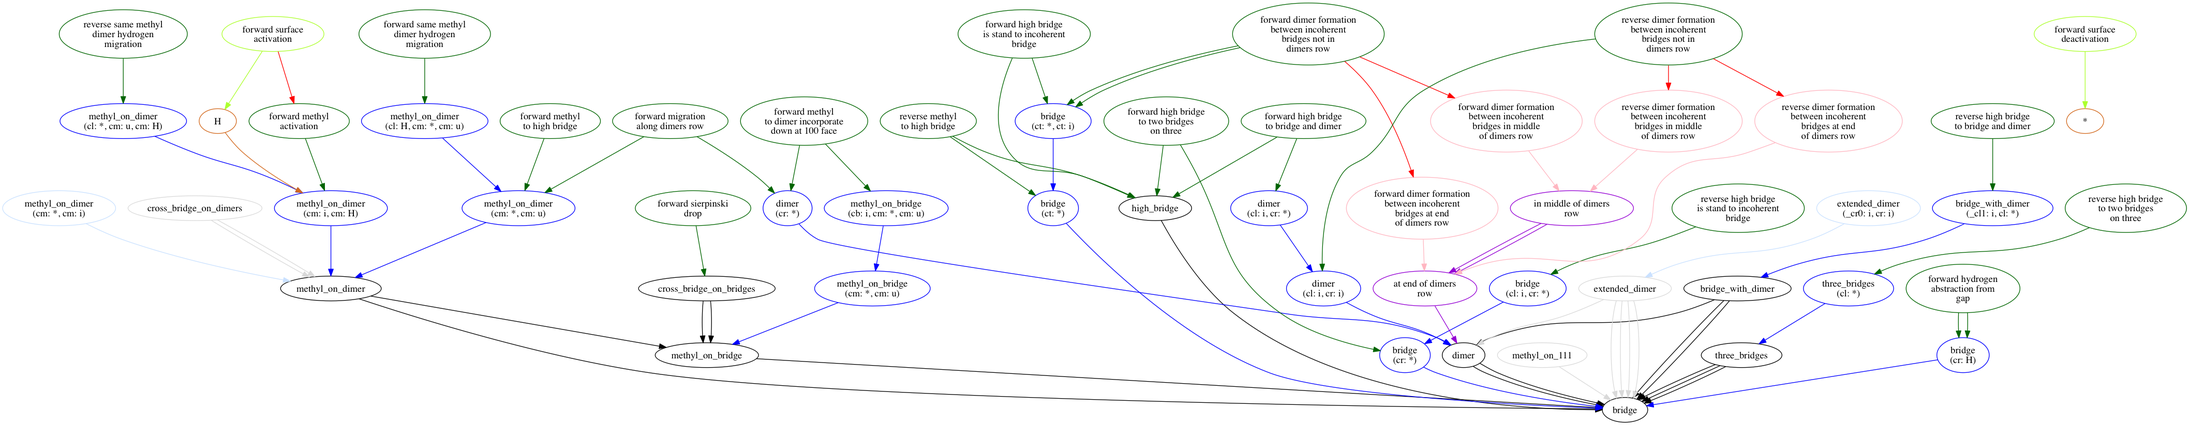
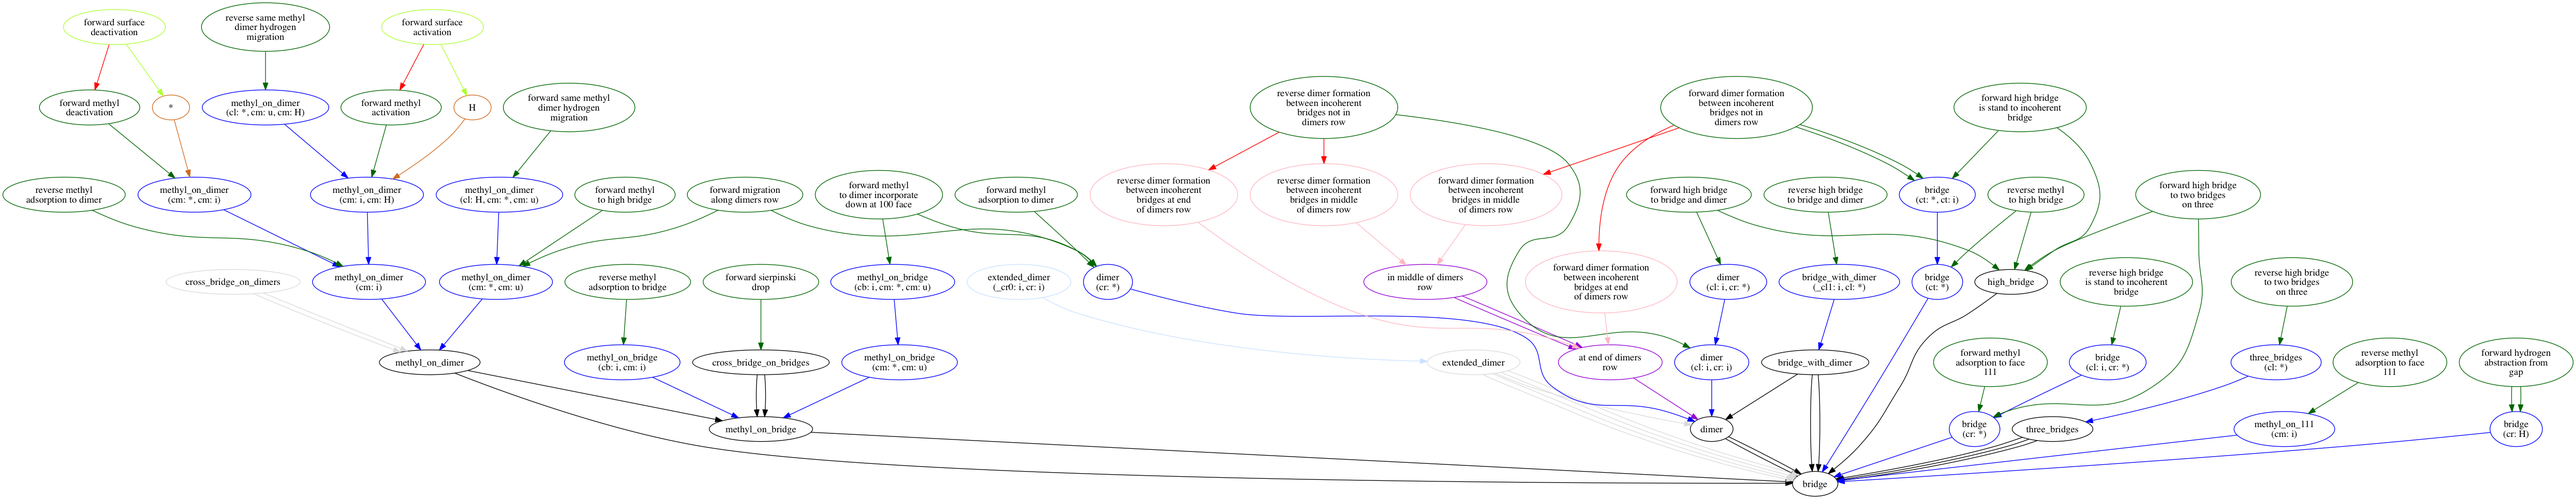
fix reaction rate calculation && fix dependencies between ubiquitous reactions and typical reactions

diff --git a/analyzer/spec/units/organizers/analysis_result_spec.rb b/analyzer/spec/units/organizers/analysis_result_spec.rb
@@ -22,47 +22,37 @@ module VersatileDiamond
 
         # ubuqitous[0]
         surface_activation.rate = 0.1
-        surface_activation.activation = 0
         # ubuqitous[1]
         surface_deactivation.rate = 0.2
-        surface_deactivation.activation = 0
 
         # typical[0]
         methyl_activation.rate = 0.3
-        methyl_activation.activation = 0
         # typical[1]
         methyl_deactivation.rate = 0.4
-        methyl_deactivation.activation = 0
 
         # typical[2]
         methyl_desorption.rate = 1
-        methyl_desorption.activation = 0
 
         # typical[3]
         hydrogen_migration.rate = 2
-        hydrogen_migration.activation = 0
         # typical[4]
         hydrogen_migration.reverse.rate = 3
         hydrogen_migration.reverse.activation = 1e3
 
         # typical[5]
         # dimer_formation.rate = 0
-        # dimer_formation.activation = 0
         # typical[6]
         dimer_formation.reverse.rate = 5
         dimer_formation.reverse.activation = 2e3
 
         # typical[7]
         methyl_incorporation.rate = 6
-        methyl_incorporation.activation = 0
 
         # lateral[0]
         end_lateral_df.rate = 6
-        end_lateral_df.activation = 0
 
         # lateral[1]
         middle_lateral_df.rate = 7
-        middle_lateral_df.activation = 0
 
         ubiquitous = [surface_activation, surface_deactivation]
 
@@ -303,11 +293,9 @@ module VersatileDiamond
             Tools::Config.surface_temperature(500, 'K')
 
             incoherent_dimer_drop.rate = 1
-            incoherent_dimer_drop.activation = 0
             Tools::Chest.store(incoherent_dimer_drop)
 
             end_lateral_idd.rate = 2
-            end_lateral_idd.activation = 0
             Tools::Chest.store(end_lateral_idd)
 
             [incoherent_dimer_drop, end_lateral_idd].each do |reaction|
@@ -345,7 +333,6 @@ module VersatileDiamond
             shared_examples_for :duplicate_or_not do
               def store_to_chest(reaction)
                 reaction.rate = 1
-                reaction.activation = 0
                 Tools::Chest.store(reaction)
               end
 
@@ -415,7 +402,6 @@ module VersatileDiamond
 
             describe 'lateral' do
               before do
-                ewb_lateral_df.activation = 0
                 ewb_lateral_df.rate = 8
                 Tools::Chest.store(ewb_lateral_df)
               end

diff --git a/analyzer/lib/tools/config.rb b/analyzer/lib/tools/config.rb
@@ -114,11 +114,13 @@ module VersatileDiamond
           arrenius = reaction.rate * (temp ** reaction.temp_power) *
             Math.exp(-reaction.activation / (Dimension::R * temp))
 
-          reaction.gases_num == 0 ?
-            arrenius :
+          if reaction.gases_num == 0
+            arrenius
+          else
             reaction.each(:source).reduce(arrenius) do |acc, spec|
               spec.gas? ? acc * concentration_value(spec) : acc
             end
+          end
         end
 
         # Finds concenctration value for some spec

diff --git a/analyzer/lib/concepts/ubiquitous_reaction.rb b/analyzer/lib/concepts/ubiquitous_reaction.rb
@@ -157,7 +157,7 @@ module VersatileDiamond
       # Calculate full rate of reaction
       # @return [Float] the full raction rate
       def full_rate
-        @activation && @rate ? Tools::Config.rate(self) : 0
+        @rate ? Tools::Config.rate(self) : 0
       end
 
       # Checks that current reaction has not zero rate
